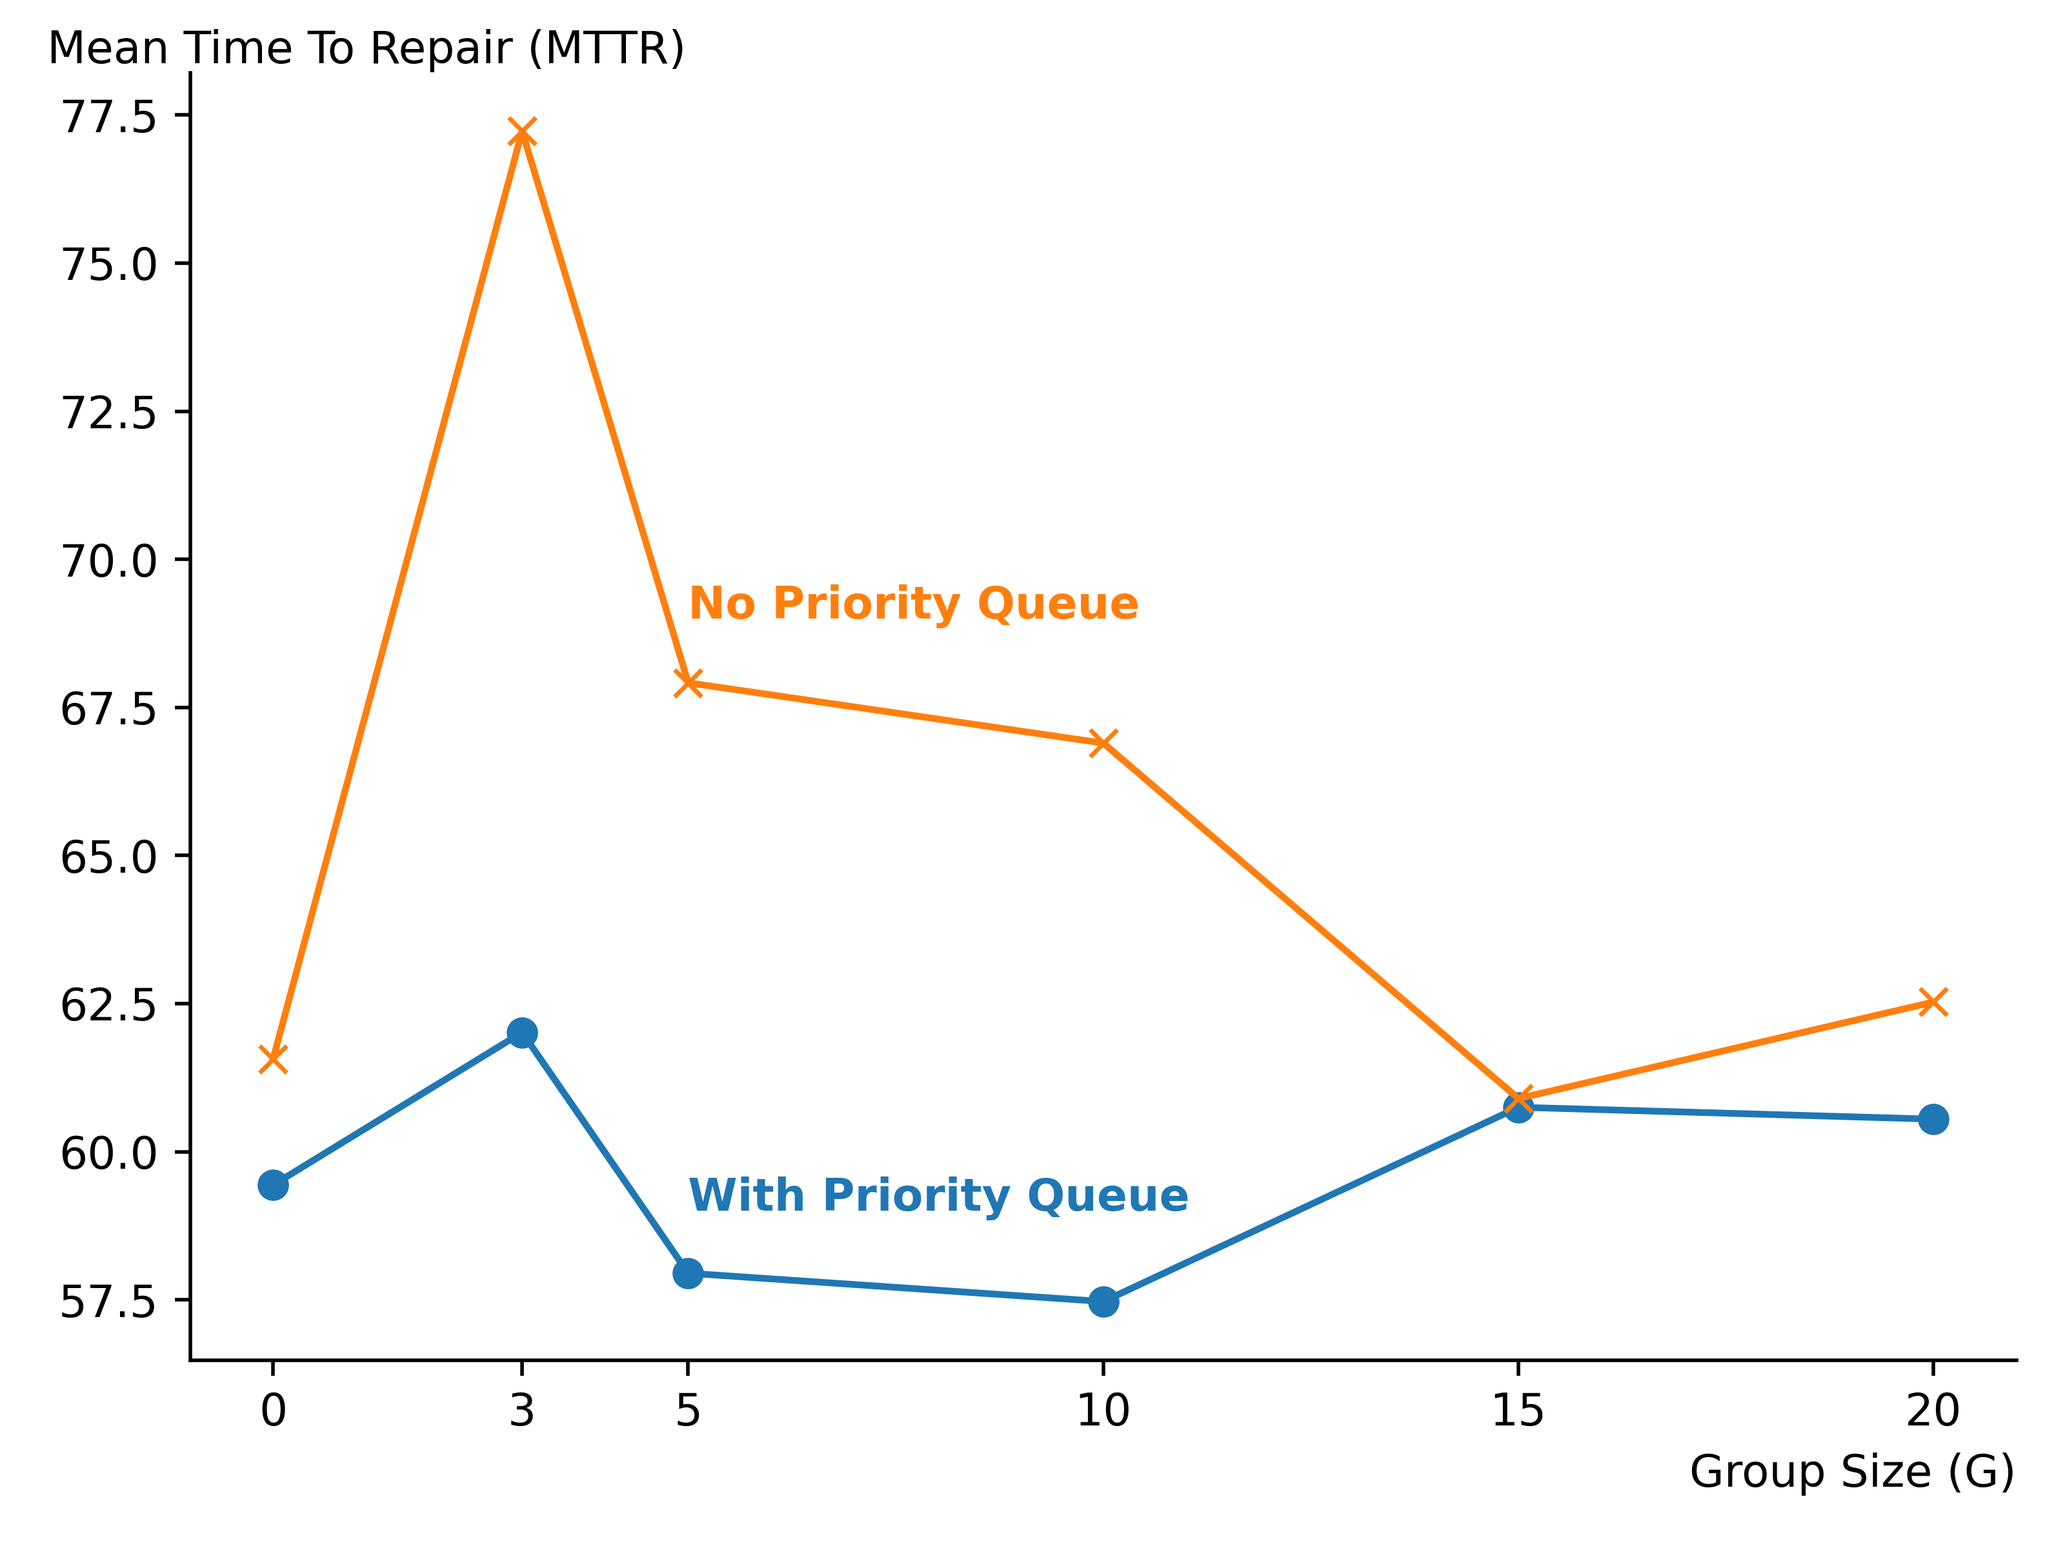
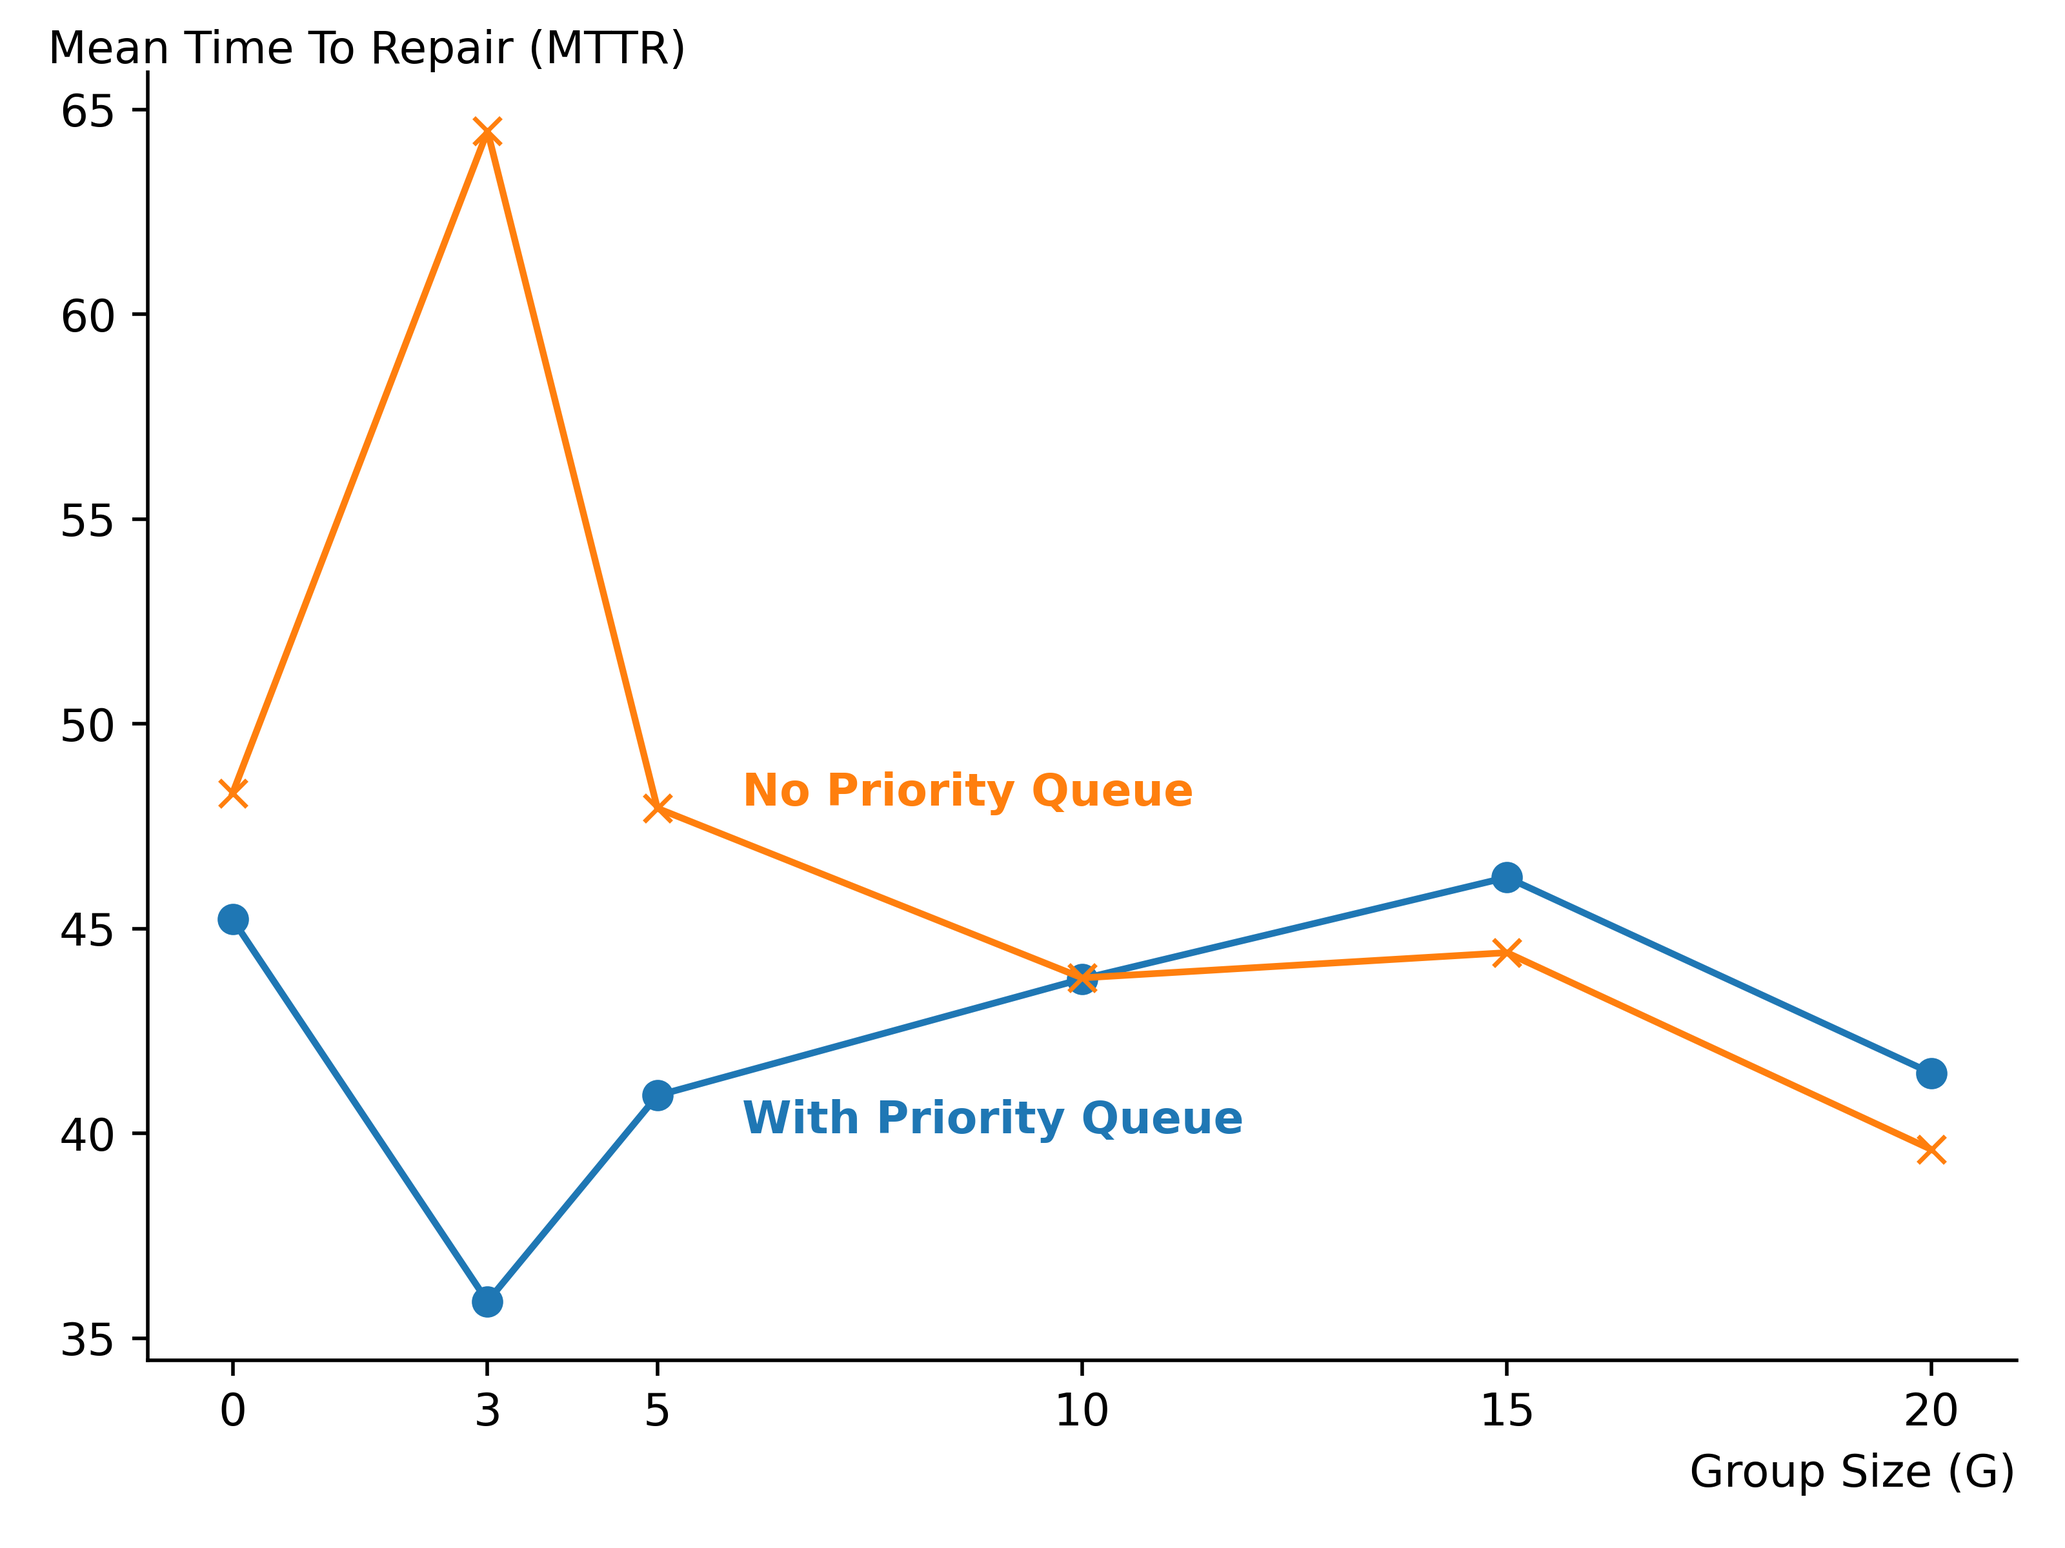
30min repeat

diff --git a/gen_conf.py b/gen_conf.py
@@ -111,66 +111,66 @@ general_props = [
             #  "PRIORITIZE_ILLUMINATING_FLS": "True", "RESULTS_PATH": "'/proj/nova-PG0/shuqin/results/'",
             #  "CEDED_POLICY": "0", "DISPLAY_CELL_SIZE": "0.01619", "NAME": "'10_pri'"},
 
-            {"SHAPE": "'dragon'", "K": "3", "INPUT": "'dragon_G3'", "DISPATCHERS": "1", "DISPATCH_RATE": "10",
+            # {"SHAPE": "'dragon'", "K": "3", "INPUT": "'dragon_G3'", "DISPATCHERS": "1", "DISPATCH_RATE": "10",
+            #  "FAILURE_TIMEOUT": "60", "MAX_SPEED": "6.11", "ACCELERATION": "6.11", "DECELERATION": "6.11",
+            #  "PRIORITIZE_ILLUMINATING_FLS": "True", "RESULTS_PATH": "'/proj/nova-PG0/shuqin/results/'",
+            #  "CEDED_POLICY": "0", "DISPLAY_CELL_SIZE": "0.05", "NAME": "'pri30'"},
+            #
+            # {"SHAPE": "'dragon'", "K": "3", "INPUT": "'dragon_G3'", "DISPATCHERS": "1", "DISPATCH_RATE": "10",
+            #  "FAILURE_TIMEOUT": "60", "MAX_SPEED": "6.11", "ACCELERATION": "6.11", "DECELERATION": "6.11",
+            #  "PRIORITIZE_ILLUMINATING_FLS": "False", "RESULTS_PATH": "'/proj/nova-PG0/shuqin/results/'",
+            #  "CEDED_POLICY": "0", "DISPLAY_CELL_SIZE": "0.05", "NAME": "'no30'"},
+
+
+            {"SHAPE": "'dragon'", "K": "0", "INPUT": "'dragon_G3'", "DISPATCHERS": "1", "DISPATCH_RATE": "10",
+             "FAILURE_TIMEOUT": "60", "MAX_SPEED": "6.11", "ACCELERATION": "6.11", "DECELERATION": "6.11",
+             "PRIORITIZE_ILLUMINATING_FLS": "True", "RESULTS_PATH": "'/proj/nova-PG0/shuqin/results/'",
+             "CEDED_POLICY": "0", "DISPLAY_CELL_SIZE": "0.05", "NAME": "'pri30'"},
+            # {"SHAPE": "'dragon'", "K": "3", "INPUT": "'dragon_G3'", "DISPATCHERS": "1", "DISPATCH_RATE": "10",
+            #  "FAILURE_TIMEOUT": "60", "MAX_SPEED": "6.11", "ACCELERATION": "6.11", "DECELERATION": "6.11",
+            #  "PRIORITIZE_ILLUMINATING_FLS": "True", "RESULTS_PATH": "'/proj/nova-PG0/shuqin/results/'",
+            #  "CEDED_POLICY": "0", "DISPLAY_CELL_SIZE": "0.05", "NAME": "'pri30'"},
+            {"SHAPE": "'dragon'", "K": "5", "INPUT": "'dragon_G5'", "DISPATCHERS": "1", "DISPATCH_RATE": "10",
+             "FAILURE_TIMEOUT": "60", "MAX_SPEED": "6.11", "ACCELERATION": "6.11", "DECELERATION": "6.11",
+             "PRIORITIZE_ILLUMINATING_FLS": "True", "RESULTS_PATH": "'/proj/nova-PG0/shuqin/results/'",
+             "CEDED_POLICY": "0", "DISPLAY_CELL_SIZE": "0.05", "NAME": "'pri30'"},
+            {"SHAPE": "'dragon'", "K": "10", "INPUT": "'dragon_G10'", "DISPATCHERS": "1", "DISPATCH_RATE": "10",
+             "FAILURE_TIMEOUT": "60", "MAX_SPEED": "6.11", "ACCELERATION": "6.11", "DECELERATION": "6.11",
+             "PRIORITIZE_ILLUMINATING_FLS": "True", "RESULTS_PATH": "'/proj/nova-PG0/shuqin/results/'",
+             "CEDED_POLICY": "0", "DISPLAY_CELL_SIZE": "0.05", "NAME": "'pri30'"},
+            {"SHAPE": "'dragon'", "K": "15", "INPUT": "'dragon_G15'", "DISPATCHERS": "1", "DISPATCH_RATE": "10",
+             "FAILURE_TIMEOUT": "60", "MAX_SPEED": "6.11", "ACCELERATION": "6.11", "DECELERATION": "6.11",
+             "PRIORITIZE_ILLUMINATING_FLS": "True", "RESULTS_PATH": "'/proj/nova-PG0/shuqin/results/'",
+             "CEDED_POLICY": "0", "DISPLAY_CELL_SIZE": "0.05", "NAME": "'pri30'"},
+            {"SHAPE": "'dragon'", "K": "20", "INPUT": "'dragon_G20'", "DISPATCHERS": "1", "DISPATCH_RATE": "10",
              "FAILURE_TIMEOUT": "60", "MAX_SPEED": "6.11", "ACCELERATION": "6.11", "DECELERATION": "6.11",
              "PRIORITIZE_ILLUMINATING_FLS": "True", "RESULTS_PATH": "'/proj/nova-PG0/shuqin/results/'",
              "CEDED_POLICY": "0", "DISPLAY_CELL_SIZE": "0.05", "NAME": "'pri30'"},
 
-            {"SHAPE": "'dragon'", "K": "3", "INPUT": "'dragon_G3'", "DISPATCHERS": "1", "DISPATCH_RATE": "10",
+            {"SHAPE": "'dragon'", "K": "0", "INPUT": "'dragon_G3'", "DISPATCHERS": "1", "DISPATCH_RATE": "10",
              "FAILURE_TIMEOUT": "60", "MAX_SPEED": "6.11", "ACCELERATION": "6.11", "DECELERATION": "6.11",
              "PRIORITIZE_ILLUMINATING_FLS": "False", "RESULTS_PATH": "'/proj/nova-PG0/shuqin/results/'",
              "CEDED_POLICY": "0", "DISPLAY_CELL_SIZE": "0.05", "NAME": "'no30'"},
-
-
-            # {"SHAPE": "'dragon'", "K": "0", "INPUT": "'dragon_G3'", "DISPATCHERS": "1", "DISPATCH_RATE": "10",
-            #  "FAILURE_TIMEOUT": "60", "MAX_SPEED": "6.11", "ACCELERATION": "6.11", "DECELERATION": "6.11",
-            #  "PRIORITIZE_ILLUMINATING_FLS": "True", "RESULTS_PATH": "'/proj/nova-PG0/shuqin/results/'",
-            #  "CEDED_POLICY": "0", "DISPLAY_CELL_SIZE": "0.05", "NAME": "'pri'"},
-            # {"SHAPE": "'dragon'", "K": "3", "INPUT": "'dragon_G3'", "DISPATCHERS": "1", "DISPATCH_RATE": "10",
-            #  "FAILURE_TIMEOUT": "60", "MAX_SPEED": "6.11", "ACCELERATION": "6.11", "DECELERATION": "6.11",
-            #  "PRIORITIZE_ILLUMINATING_FLS": "True", "RESULTS_PATH": "'/proj/nova-PG0/shuqin/results/'",
-            #  "CEDED_POLICY": "0", "DISPLAY_CELL_SIZE": "0.05", "NAME": "'pri'"},
-            # {"SHAPE": "'dragon'", "K": "5", "INPUT": "'dragon_G5'", "DISPATCHERS": "1", "DISPATCH_RATE": "10",
-            #  "FAILURE_TIMEOUT": "60", "MAX_SPEED": "6.11", "ACCELERATION": "6.11", "DECELERATION": "6.11",
-            #  "PRIORITIZE_ILLUMINATING_FLS": "True", "RESULTS_PATH": "'/proj/nova-PG0/shuqin/results/'",
-            #  "CEDED_POLICY": "0", "DISPLAY_CELL_SIZE": "0.05", "NAME": "'pri'"},
-            # {"SHAPE": "'dragon'", "K": "10", "INPUT": "'dragon_G10'", "DISPATCHERS": "1", "DISPATCH_RATE": "10",
-            #  "FAILURE_TIMEOUT": "60", "MAX_SPEED": "6.11", "ACCELERATION": "6.11", "DECELERATION": "6.11",
-            #  "PRIORITIZE_ILLUMINATING_FLS": "True", "RESULTS_PATH": "'/proj/nova-PG0/shuqin/results/'",
-            #  "CEDED_POLICY": "0", "DISPLAY_CELL_SIZE": "0.05", "NAME": "'pri'"},
-            # {"SHAPE": "'dragon'", "K": "15", "INPUT": "'dragon_G15'", "DISPATCHERS": "1", "DISPATCH_RATE": "10",
-            #  "FAILURE_TIMEOUT": "60", "MAX_SPEED": "6.11", "ACCELERATION": "6.11", "DECELERATION": "6.11",
-            #  "PRIORITIZE_ILLUMINATING_FLS": "True", "RESULTS_PATH": "'/proj/nova-PG0/shuqin/results/'",
-            #  "CEDED_POLICY": "0", "DISPLAY_CELL_SIZE": "0.05", "NAME": "'pri'"},
-            # {"SHAPE": "'dragon'", "K": "20", "INPUT": "'dragon_G20'", "DISPATCHERS": "1", "DISPATCH_RATE": "10",
-            #  "FAILURE_TIMEOUT": "60", "MAX_SPEED": "6.11", "ACCELERATION": "6.11", "DECELERATION": "6.11",
-            #  "PRIORITIZE_ILLUMINATING_FLS": "True", "RESULTS_PATH": "'/proj/nova-PG0/shuqin/results/'",
-            #  "CEDED_POLICY": "0", "DISPLAY_CELL_SIZE": "0.05", "NAME": "'pri'"},
-            #
-            # {"SHAPE": "'dragon'", "K": "0", "INPUT": "'dragon_G3'", "DISPATCHERS": "1", "DISPATCH_RATE": "10",
-            #  "FAILURE_TIMEOUT": "60", "MAX_SPEED": "6.11", "ACCELERATION": "6.11", "DECELERATION": "6.11",
-            #  "PRIORITIZE_ILLUMINATING_FLS": "False", "RESULTS_PATH": "'/proj/nova-PG0/shuqin/results/'",
-            #  "CEDED_POLICY": "0", "DISPLAY_CELL_SIZE": "0.05", "NAME": "'no'"},
             # {"SHAPE": "'dragon'", "K": "3", "INPUT": "'dragon_G3'", "DISPATCHERS": "1", "DISPATCH_RATE": "10",
             #  "FAILURE_TIMEOUT": "60", "MAX_SPEED": "6.11", "ACCELERATION": "6.11", "DECELERATION": "6.11",
             #  "PRIORITIZE_ILLUMINATING_FLS": "False", "RESULTS_PATH": "'/proj/nova-PG0/shuqin/results/'",
-            #  "CEDED_POLICY": "0", "DISPLAY_CELL_SIZE": "0.05", "NAME": "'no'"},
-            # {"SHAPE": "'dragon'", "K": "5", "INPUT": "'dragon_G5'", "DISPATCHERS": "1", "DISPATCH_RATE": "10",
-            #  "FAILURE_TIMEOUT": "60", "MAX_SPEED": "6.11", "ACCELERATION": "6.11", "DECELERATION": "6.11",
-            #  "PRIORITIZE_ILLUMINATING_FLS": "False", "RESULTS_PATH": "'/proj/nova-PG0/shuqin/results/'",
-            #  "CEDED_POLICY": "0", "DISPLAY_CELL_SIZE": "0.05", "NAME": "'no'"},
-            # {"SHAPE": "'dragon'", "K": "10", "INPUT": "'dragon_G10'", "DISPATCHERS": "1", "DISPATCH_RATE": "10",
-            #  "FAILURE_TIMEOUT": "60", "MAX_SPEED": "6.11", "ACCELERATION": "6.11", "DECELERATION": "6.11",
-            #  "PRIORITIZE_ILLUMINATING_FLS": "False", "RESULTS_PATH": "'/proj/nova-PG0/shuqin/results/'",
-            #  "CEDED_POLICY": "0", "DISPLAY_CELL_SIZE": "0.05", "NAME": "'no'"},
-            # {"SHAPE": "'dragon'", "K": "15", "INPUT": "'dragon_G15'", "DISPATCHERS": "1", "DISPATCH_RATE": "10",
-            #  "FAILURE_TIMEOUT": "60", "MAX_SPEED": "6.11", "ACCELERATION": "6.11", "DECELERATION": "6.11",
-            #  "PRIORITIZE_ILLUMINATING_FLS": "False", "RESULTS_PATH": "'/proj/nova-PG0/shuqin/results/'",
-            #  "CEDED_POLICY": "0", "DISPLAY_CELL_SIZE": "0.05", "NAME": "'no'"},
-            # {"SHAPE": "'dragon'", "K": "20", "INPUT": "'dragon_G20'", "DISPATCHERS": "1", "DISPATCH_RATE": "10",
-            #  "FAILURE_TIMEOUT": "60", "MAX_SPEED": "6.11", "ACCELERATION": "6.11", "DECELERATION": "6.11",
-            #  "PRIORITIZE_ILLUMINATING_FLS": "False", "RESULTS_PATH": "'/proj/nova-PG0/shuqin/results/'",
-            #  "CEDED_POLICY": "0", "DISPLAY_CELL_SIZE": "0.05", "NAME": "'no'"},
+            #  "CEDED_POLICY": "0", "DISPLAY_CELL_SIZE": "0.05", "NAME": "'no30'"},
+            {"SHAPE": "'dragon'", "K": "5", "INPUT": "'dragon_G5'", "DISPATCHERS": "1", "DISPATCH_RATE": "10",
+             "FAILURE_TIMEOUT": "60", "MAX_SPEED": "6.11", "ACCELERATION": "6.11", "DECELERATION": "6.11",
+             "PRIORITIZE_ILLUMINATING_FLS": "False", "RESULTS_PATH": "'/proj/nova-PG0/shuqin/results/'",
+             "CEDED_POLICY": "0", "DISPLAY_CELL_SIZE": "0.05", "NAME": "'no30'"},
+            {"SHAPE": "'dragon'", "K": "10", "INPUT": "'dragon_G10'", "DISPATCHERS": "1", "DISPATCH_RATE": "10",
+             "FAILURE_TIMEOUT": "60", "MAX_SPEED": "6.11", "ACCELERATION": "6.11", "DECELERATION": "6.11",
+             "PRIORITIZE_ILLUMINATING_FLS": "False", "RESULTS_PATH": "'/proj/nova-PG0/shuqin/results/'",
+             "CEDED_POLICY": "0", "DISPLAY_CELL_SIZE": "0.05", "NAME": "'no30'"},
+            {"SHAPE": "'dragon'", "K": "15", "INPUT": "'dragon_G15'", "DISPATCHERS": "1", "DISPATCH_RATE": "10",
+             "FAILURE_TIMEOUT": "60", "MAX_SPEED": "6.11", "ACCELERATION": "6.11", "DECELERATION": "6.11",
+             "PRIORITIZE_ILLUMINATING_FLS": "False", "RESULTS_PATH": "'/proj/nova-PG0/shuqin/results/'",
+             "CEDED_POLICY": "0", "DISPLAY_CELL_SIZE": "0.05", "NAME": "'no30'"},
+            {"SHAPE": "'dragon'", "K": "20", "INPUT": "'dragon_G20'", "DISPATCHERS": "1", "DISPATCH_RATE": "10",
+             "FAILURE_TIMEOUT": "60", "MAX_SPEED": "6.11", "ACCELERATION": "6.11", "DECELERATION": "6.11",
+             "PRIORITIZE_ILLUMINATING_FLS": "False", "RESULTS_PATH": "'/proj/nova-PG0/shuqin/results/'",
+             "CEDED_POLICY": "0", "DISPLAY_CELL_SIZE": "0.05", "NAME": "'no30'"},
 
             # {"SHAPE": "'racecar'", "K": "0", "INPUT": "'racecar_K3'", "DISPATCHERS": "1", "DISPATCH_RATE": "'inf'",
             #  "FAILURE_TIMEOUT": "30", "MAX_SPEED": "6.11", "ACCELERATION": "6.11", "DECELERATION": "6.11",

diff --git a/animation.py b/animation.py
@@ -248,9 +248,9 @@ if __name__ == '__main__':
 
 
 
-    for folder in ["K0", "K3", "K5", "K10", "K20"]:
-        for filename in ["pri", "no"]:
-            input_path = f"/Users/shuqinzhu/Desktop/dragon/{folder}/dragon_D1_R10_T30_S6_N{filename}/timeline.json"
+    for folder in ["K3"]:
+        for filename in ["pri30", "no30"]:
+            input_path = f"/Users/shuqinzhu/Desktop/dragon/{folder}/dragon_D1_R10_T60_S6_N{filename}/timeline.json"
             # input_path = f"/Users/shuqinzhu/Desktop/timeline.json"
             filtered_events, length, width, height = read_point_cloud(input_path)
             fig, ax, _ = draw_figure()
@@ -266,8 +266,8 @@ if __name__ == '__main__':
             # trim_values = [375, 200, 300, 120]  # Replace with the number of pixels to trim from each side (left, top, right, bottom)
             # trim_png(image_path, output_path, trim_values)
             #
-            plt.savefig(f"/Users/shuqinzhu/Desktop/exp_figure/dragon_pri_cmp/{folder}_{filename}.png")
-            image_path = f"/Users/shuqinzhu/Desktop/exp_figure/dragon_pri_cmp/{folder}_{filename}.png"  # Replace with the path to your PNG file
-            output_path = f"/Users/shuqinzhu/Desktop/exp_figure/dragon_pri_cmp/{folder}_{filename}.png"  # Replace with the path to save the trimmed image
+            plt.savefig(f"/Users/shuqinzhu/Desktop/exp_figure/dragon_pri_cmp/{folder}_{filename}_30.png")
+            image_path = f"/Users/shuqinzhu/Desktop/exp_figure/dragon_pri_cmp/{folder}_{filename}_30.png"  # Replace with the path to your PNG file
+            output_path = f"/Users/shuqinzhu/Desktop/exp_figure/dragon_pri_cmp/{folder}_{filename}_30.png"  # Replace with the path to save the trimmed image
             trim_values = [377, 216, 300, 127]  # Replace with the number of pixels to trim from each side (left, top, right, bottom)
             trim_png(image_path, output_path, trim_values)

diff --git a/utils/draw_mttr_groupsize.py b/utils/draw_mttr_groupsize.py
@@ -7,7 +7,7 @@ QoI_list = [[],[]]
 for i, filename in enumerate(["pri", "no"]):
 
     for folder in ["K0", "K3", "K5", "K10", "K15", "K20"]:
-        input_path = f"/Users/shuqinzhu/Desktop/dragon/{folder}/dragon_D1_R10_T30_S6_N{filename}/dragon_D1_R10_T30_S6_N{filename}_final_report.xlsx"
+        input_path = f"/Users/shuqinzhu/Desktop/dragon_10min/{folder}/dragon_D1_R10_T60_S6_N{filename}/dragon_D1_R10_T60_S6_N{filename}_final_report.xlsx"
 
         metrics_df = pd.read_excel(input_path, sheet_name='Metrics')
 
@@ -36,9 +36,9 @@ ax.set_xlabel('Group Size (G)', loc='right')
 plt.tight_layout()
 
 
-plt.text(5, 59, 'With Priority Queue', color=pri_line.get_color(), fontweight='bold')
+plt.text(6, 40, 'With Priority Queue', color=pri_line.get_color(), fontweight='bold')
 
-plt.text(5, 69, 'No Priority Queue', color=nopri_line.get_color(), fontweight='bold')
+plt.text(6, 48, 'No Priority Queue', color=nopri_line.get_color(), fontweight='bold')
 
 # Add legend
 # plt.show(dpi=500)
@@ -51,9 +51,9 @@ pri_line, = plt.plot([0, 3, 5, 10, 15, 20], QoI_list[0], marker='o', label=f'Wit
 nopri_line, = plt.plot([0, 3, 5, 10, 15, 20], QoI_list[1], marker='x', label=f'No Priority Queue')
 
 
-plt.text(5, 0.22, 'With Priority Queue', color=pri_line.get_color(), fontweight='bold')
+plt.text(6, 0.46, 'With Priority Queue', color=pri_line.get_color(), fontweight='bold')
 
-plt.text(5, 0.17, 'No Priority Queue', color=nopri_line.get_color(), fontweight='bold')
+plt.text(6, 0.40, 'No Priority Queue', color=nopri_line.get_color(), fontweight='bold')
 # plt.tight_layout()
 
 ax = plt.gca()

diff --git a/primary.py b/primary.py
@@ -20,7 +20,7 @@ import worker
 import utils
 from utils import logger
 from utils.file import read_cliques_xlsx, get_group_mapping, read_point_info_from_cliques_xlsx, get_time_range
-from utils.socket1 import send_msg
+from utils.com_socket import send_msg
 from utils.generate_circle_coord import generate_circle_coordinates
 from utils.sanity_metrics import *
 from utils.report import *

diff --git a/secondary.py b/secondary.py
@@ -9,7 +9,7 @@ from config import Config
 from constants import Constants
 import worker
 from utils import logger
-from utils.socket1 import recv_msg
+from utils.com_socket import recv_msg
 import sys
 
 
